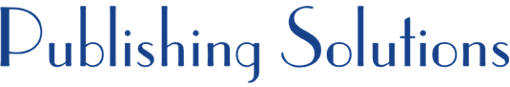
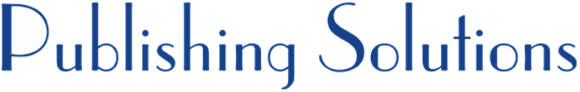
Front page done

diff --git a/public/stylesheets/application.css b/public/stylesheets/application.css
@@ -4,6 +4,7 @@
   */
 
 body {
+    
     font-family: Arial, Helvetica, sans-serif;
 }
 
@@ -32,13 +33,13 @@ body {
     font-size: 14pt;
     font-weight: normal;
     text-align: right;
-    margin-top: 5px;
+    margin-top: 8px;
 }
 
 #logo {
     float: right;
     margin-left: 12px;
-    margin-top: 9px;
+    margin-top: 12px;
 }
 
 #heading {
@@ -53,12 +54,15 @@ body {
 }
 
 #nav {
+    margin-top: 20px;
     margin-left: 16px;
 
 }
 
 /* Top level menus */
 #menu > ul > li {
+    text-align: center;
+    width: 75px;
     height: 22px;
     padding-top: 3px;
     padding-left: 7px;
@@ -102,16 +106,21 @@ body {
 
 }
 
+/* Body */
+.inner {
+    margin-top: 30px;
+}
+td {
+    vertical-align: top;
+}
 #body_content_left {
-    width:80%;
+    width: 560px;
 }
 #body_content_right {
-    width:20%;
 }
 
-#footer {
-    font-size: 80%;
-}
+/* Footer */
+#footer { font-size: 80%;}
 
 #footer_l {
     text-align:center;

diff --git a/public/javascripts/admin.js b/public/javascripts/admin.js
@@ -3,5 +3,10 @@
 // This will completely override anything specified in boot_wym.js for that key.
 // e.g. skin: 'something_else'
 var custom_wymeditor_boot_options = {
-
+  classesItems: [
+    {name: 'text-align', rules:['left', 'center', 'right', 'justify'], join: '-'}
+    , {name: 'image-align', rules:['left', 'right'], join: '-'}
+    , {name: 'font-size', rules:['small','normal','20pt'], join: '-'}
+    , {name: 'text-color', rules:['red', 'blue'], join: '-'}
+  ]    
 };

diff --git a/public/stylesheets/theme.css b/public/stylesheets/theme.css
@@ -2,3 +2,31 @@
   Override default refinery 'theme' styles here.
   These only apply when using custom WYMeditor CSS.
 */
+
+.medium_box {
+    width: 550px;
+    padding-right: 30px;
+}
+
+.align-top {
+    valign: top;
+}
+
+.border-color-blue {
+    width: 296px;
+    padding: 10px;
+    font-size: 16pt;
+    border: 2px #253D86 solid;
+}
+
+.font-size-20pt {
+    font-size: 20pt;
+}
+
+.text-color-red {
+    color: #C61427;
+}
+
+.text-color-blue {
+    color: #253D86;
+}
